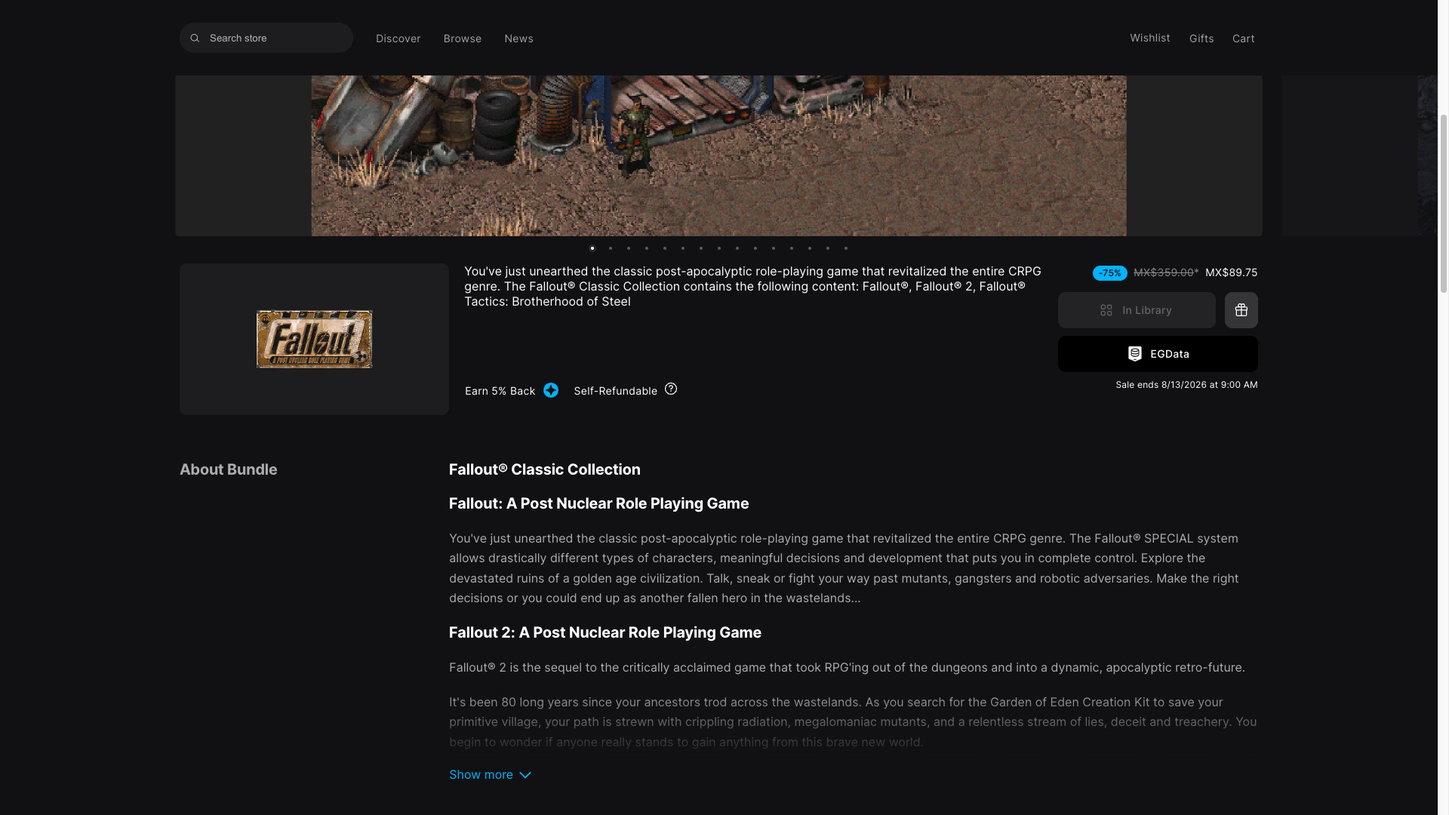
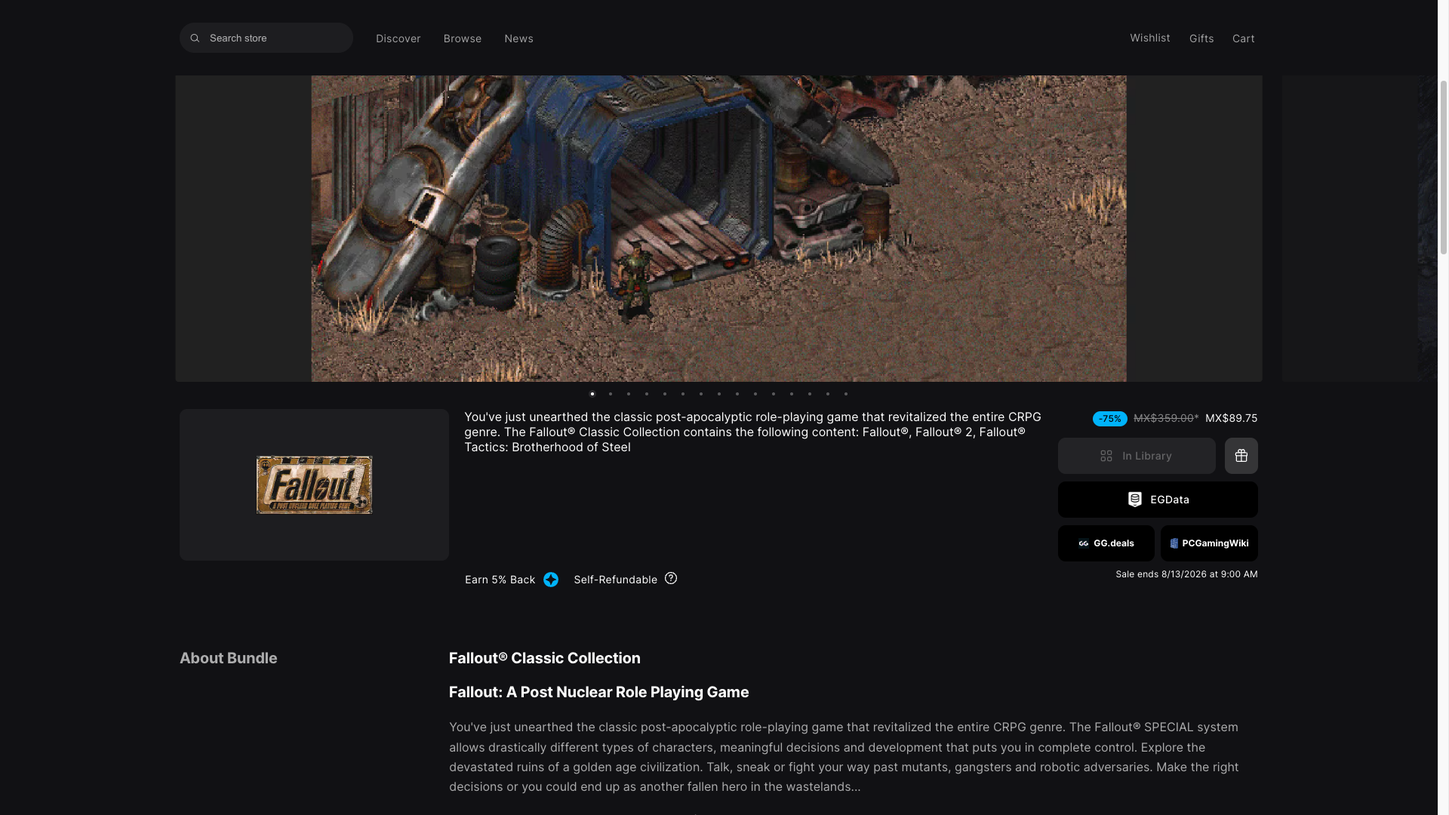
feat(epic-games-store-to-egdata): botones a GG.deals con filtro de DRM de Epic y a PCGamingWiki bajo cada botón de compra — bump 1.5.2 -> 1.6.0

diff --git a/epic-games-store-to-egdata.user.js b/epic-games-store-to-egdata.user.js
@@ -1,8 +1,8 @@
 // ==UserScript==
 // @name         Epic Games Store to EGData Button
 // @namespace    https://www.epicgames.com/store/
-// @version      1.5.2
-// @description  Adds an EGData button (price and deal history) below every purchase button on Epic Games Store product and bundle pages — bundles have two, and both get one — linking to that exact offer. On your wishlist it adds an 'only discounted' filter that first loads the whole list, remembered sort and filters, and a shareable link that reproduces them.
+// @version      1.6.0
+// @description  Adds EGData, GG.deals and PCGamingWiki buttons below every purchase button on Epic Games Store product and bundle pages — bundles have two, and both get the trio. EGData links to that exact offer; the other two search by title, GG.deals among Epic-DRM deals with no store-rating floor, and each says so in its tooltip. On your wishlist it adds an 'only discounted' filter that first loads the whole list, remembered sort and filters, and a shareable link that reproduces them.
 // @author       g31w0fw0rld
 // @license      MIT
 // @match        https://store.epicgames.com/*
@@ -39,13 +39,16 @@
             rememberTip: 'Guarda el orden y los filtros que elijas en Epic y los reaplica automáticamente cada vez que vuelvas a la lista de deseos.',
             onlyDiscountTip: 'Baja por TODA tu lista (Epic la carga por lotes al hacer scroll) para detectar todos los juegos y ocultar los que no están en oferta. Respeta el orden que elijas en Epic. El descuento se detecta por el badge de porcentaje o por el precio original tachado.',
             copyLinkTip: 'Genera una URL que, al abrirla con el script instalado, reproduce tu orden y filtros actuales (incluido "solo con descuento").',
+            ggTip: 'Busca el título en GG.deals con el filtro de DRM de Epic. Al buscar por nombre, puede no dar con el juego exacto.',
+            pcgwTip: 'Busca el título en PCGamingWiki (compatibilidad y arreglos). Al buscar por nombre, puede no dar con el artículo exacto.',
             aboutTip: 'Ver qué hace este script en su totalidad.',
             aboutTitle: '¿Qué hace este script?',
             aboutBody: [
                 'Este script conecta Epic Games Store con EGData y mejora tu lista de deseos.',
-                '• En páginas de producto (/p/) y de bundle (/bundles/): añade un botón hacia EGData (base de datos de precios e historial de ofertas) bajo el botón de compra.',
-                '– Enlaza a esa oferta concreta, no a una búsqueda.',
-                '– Un botón por cada botón de compra: los bundles tienen dos (la barra de arriba y la sección "Buy …") y ambos reciben el suyo.',
+                '• En páginas de producto (/p/) y de bundle (/bundles/): añade tres botones bajo el botón de compra.',
+                '– EGData (base de datos de precios e historial de ofertas) enlaza a esa oferta concreta, no a una búsqueda.',
+                '– GG.deals busca el título entre las ofertas con DRM de Epic, sin el mínimo de valoración de tienda que trae por defecto, y PCGamingWiki lo busca para ver compatibilidad y arreglos. Los dos buscan por nombre, así que pueden no acertar; cada uno lo dice en su tooltip.',
+                '– Un juego de botones por cada botón de compra: los bundles tienen dos (la barra de arriba y la sección "Buy …") y ambos reciben el suyo.',
                 '– Al navegar dentro de la tienda hacia un producto o un bundle, la página se recarga. Epic es una SPA y el script no estaba activo en el home, la búsqueda ni el browse; esa recarga es lo que garantiza que el botón aparezca.',
                 '• En tu lista de deseos (/wishlist) añade una barra con tres herramientas:',
                 '– Solo con descuento: baja automáticamente por toda la lista (Epic la carga por lotes al hacer scroll) para detectar TODOS los juegos y mostrar únicamente los que están en oferta, respetando el orden que elegiste en Epic. El descuento se detecta por el badge de porcentaje o por el precio original tachado. Se recuerda por su cuenta, esté o no activo "Recordar orden y filtros".',
@@ -65,13 +68,16 @@
             rememberTip: 'Saves the sort order and filters you pick in Epic and reapplies them automatically every time you return to the wishlist.',
             onlyDiscountTip: 'Scrolls through your WHOLE list (Epic loads it in batches on scroll) to detect every game and hide those not on sale. It keeps the sort order you pick in Epic. Discounts are detected by the percentage badge or the struck-through original price.',
             copyLinkTip: 'Builds a URL that, when opened with the script installed, reproduces your current sort and filters (including "only discounted").',
+            ggTip: 'Searches the title on GG.deals with the Epic DRM filter. Being a title search, it may not hit the exact game.',
+            pcgwTip: 'Searches the title on PCGamingWiki (compatibility and fixes). Being a title search, it may not hit the exact article.',
             aboutTip: 'See everything this script does.',
             aboutTitle: 'What does this script do?',
             aboutBody: [
                 'This script links Epic Games Store with EGData and enhances your wishlist.',
-                '• On product (/p/) and bundle (/bundles/) pages: adds a button to EGData (a price and deal-history database) below the purchase button.',
-                '– It links to that exact offer, not to a search.',
-                '– One button per purchase button: bundles have two (the bar at the top and the "Buy …" section) and both get theirs.',
+                '• On product (/p/) and bundle (/bundles/) pages: adds three buttons below the purchase button.',
+                '– EGData (a price and deal-history database) links to that exact offer, not to a search.',
+                '– GG.deals searches the title among Epic-DRM deals, with none of the default store-rating floor, and PCGamingWiki searches it for compatibility and fixes. Both are title searches, so they can miss; each says so in its tooltip.',
+                '– One set of buttons per purchase button: bundles have two (the bar at the top and the "Buy …" section) and both get theirs.',
                 '– Navigating inside the store to a product or a bundle reloads the page. Epic is a single-page app and the script was not active on the home, search or browse view; that reload is what guarantees the button appears.',
                 '• On your wishlist (/wishlist) it adds a toolbar with three tools:',
                 '– Only discounted: automatically scrolls through the whole list (Epic loads it in batches on scroll) to detect ALL games and show only those on sale, keeping the sort order you chose in Epic. Discounts are detected by the percentage badge or the struck-through original price. It is remembered on its own, whether or not "Remember sort and filters" is on.',
@@ -90,9 +96,34 @@
     const EGDATA_ICON_URL = 'https://cdn.egdata.app/logo_simple_white_clean.png';
     const PURCHASE_BUTTON_SELECTOR = '[data-testid="purchase-cta-button"]';
     const DATA_ATTR = 'data-egs2egd';
+    const LINK_ATTR = 'data-egs2egd-link';
     const STYLES_ID = 'egs2egd-styles';
     // Sincronizar con @version del encabezado en cada bump.
-    const SCRIPT_VERSION = '1.5.2';
+    const SCRIPT_VERSION = '1.6.0';
+
+    // GG.deals filtra por DRM con un bitmask numérico en la query, no por nombre:
+    // 1 Steam, 8 GOG, 16 sin DRM, 32 otros, 128 Microsoft Store, 1024 Epic. Aquí
+    // interesa Epic, que es el DRM de todo lo que se vende en esta tienda.
+    // Va a /deals/ (la lista de ofertas), que es la que acepta el filtro de DRM;
+    // /games/ lo ignora. Y minRating=0 desactiva el mínimo de valoración de tienda
+    // que trae por defecto, que si no esconde parte de las ofertas.
+    const GGDEALS_SEARCH_URL = 'https://gg.deals/deals/';
+    const GGDEALS_EPIC_DRM = '1024';
+    const GGDEALS_MIN_RATING = '0';
+    const PCGW_SEARCH_URL = 'https://www.pcgamingwiki.com/w/index.php';
+
+    // Icono de GG.deals: favicon remoto (su CDN permite el hotlink). Si el CSP de
+    // Epic lo bloqueara, el onerror lo quita y queda solo la etiqueta.
+    const GGDEALS_ICON_URL = 'https://gg.deals/favicon.ico';
+    // Icono de PCGamingWiki: SVG inline. Su favicon.ico responde 403 al hotlink
+    // (Cloudflare) desde otros dominios, así que como <img> remoto no se ve; el SVG
+    // inline es markup y siempre pinta, sin depender del CSP ni del hotlink.
+    const PCGW_ICON_SVG = '<svg xmlns="http://www.w3.org/2000/svg" viewBox="0 0 827 1158" width="13" height="18" aria-hidden="true" style="vertical-align:middle;flex:0 0 auto"><path d="M0 166.2 448.9-1.1 827.4 56.1l0 1023.9 0.1 28.9L452.1 1158.9 0 1008.4z" fill="#365798"/><path d="M25.3 985.5 24.1 190.5 413 46.8 412 1107.6zM478.1 1108.6 478.3 52.3 788.1 94.3l0 975.8z" fill="#a5b6d9"/><path d="M215.5 737 41.5 727 40.3 420.5 215.9 404.1zm16.7-334.5 156.1-19.4-1.2 359.8-155.2-4.8zM39.3 399.9l0-194.4 176-57.4 1.2 232.1zm350.8-317.2 0.9 274.5-158.7 20.4 0-238zm-253 909.7 0-235.1 141.7 9.3 0 268.4zm247 80.8-17.3-6.4c3.8-22.5-18.9-31.9-19.1-5.7l-18.7-5.5c-0.9-22.1-13.9-31.7-21.2-6.8l-9.7-3-0.6-277.7 12.3 0.9c-4.3 27.5 23.5 28.2 20.3 1.7L350.4 772c-4.4 28.6 23.2 28.9 20.4 1.3l12.7 0.8zM42.8 751.1l82.2 5.9-0.5 108-81.9-11.2zm83.1 129.3-0.9 110.4-82.7-20.2 0-102.4zM494.3 70l278.6 36.6 0 950-278.3 35.1z" fill="#365798"/><path d="m279 507.5c-0.1-5.1 0-10 3.2-14.2 6 0.2 4.9 9.7 5 14.3 10.3 5.1 4.9-10.8 10.2-15.3 7.6-0.8-0.6 16 6.9 15.8 4.9-0.1 3.9-2.4 3.8-6.7-0.1-3.9 0.4-7.8 3.8-10.3 8.2 3.1 0.8 18.2 11.2 15.8 0-6.4-1-14.2 5.8-17.6 2.6 5.2-0.1 14.8 5.4 16.1 7.4 1.7 8.4 3.6 10.2 10.5 0.8 3.1-0.4 4.6 2.8 6.4 3.5 2 7.6 1.4 7.7 6.1 0.1 6.4-2.7 5.5-7.6 5.5-1.8 0-2.4 3.4-2.5 4.7-0.4 4.7 0.4 5.7 5 7 5.9 1.7 4.9 3.3 4.9 8.7 0 2.7 0.5 1.2-3.1 1.9-5.7 1.1-7 0.3-6.7 6.8 0.4 7.8 13.4 1.4 9.7 12.6-1.6 4.8-9.5 1.1-9.5 5.3 0 5.3-1.1 7.7 5.4 8.2 6.4 0.5 6 9.1 0.4 11-3.4 1.2-4.6-0.1-5.8 4-1.2 4.1-1.1 8.4-2.6 12.5-6.1 4.5-11.6-1.7-11.6 8.4 0 2.7-0.6 4.7-1.1 7.3-0.9 5-2.2 0.7-5.8 1.8-1-1.2 0-7.9 0-9.5 0-4.7-1.6-5.8-7-5.4-0.3 5.8-0.2 12-4.9 16.2-2.9-1.9-4-4.8-4.2-8.1-0.3-6.5 0.2-6.7-6.5-8.3-1.2 2.9-2 11.4-1.5 14.5-5.2 2.6-6-5.4-6-8.6 0-2.7 1.1-5.7-2.3-6.7-3.4-0.9-4.6 0.8-4.7 3.9-0.2 6.1-0.5 8.8-5.3 12.2-1.9-5.4-0.3-14.7-6.6-16.4-7-1.8-7.9-6.9-8-13.6-0.1-7.3-8.9-0.3-8.9-8.2 0-0.8-0.6-4.9 0-5.5 2.9-2.1 5.8 1.2 8.5 0.1 1.3-3.6 1.8-9-2.1-9.9-4-0.9-7.8-1.4-6.9-6 1.1-5.7 0.1-5.4 6.3-5.8 4.7-0.3 3-5.2 3.1-8.4-6.2-2.9-8.8 0.8-8.8-7.4 0-5.6-0.4-5.1 5.2-5.1 4.8 0 3.4-1.7 3.4-6.3 0-5.1-9.2-0.6-9.6-7.6-0.2-3 1-5.6 3.9-6.7 5.1-2 5.7-2.3 5.9-7.8 0.3-8 5.6-8.9 12-12.1l0 0 0 0zM88.3 368.3l24.3-92.2-15.7 7.5 21.6-79 25.5-7.3-19.1 53.1 19.2-10.3-55.7 128.3 0 0z" fill="#a5b6d9"/><path d="m278.8 317.9c1.2-3.2 2.5-6.5 3.8-9.9 13.8 5.9 26.4 10.2 40.6 1.9 13.7-8 22.8-24.3 28-38.8 10.2-28.4 10.2-66.8-8.3-91.8-22.5-30.5-54.5-14.5-69.8 13.9-4.7 8.8-11.2 31.3-12.1 45.3-0.5 6.9-0.2 14.1 0.8 21.3 1 8.1 5.2 16.5 4.2 24.7-0.3 2.5-1.8 4.1-4.6 4.6-16.7-28-7.6-72.9 4.9-100.6 12.5-27.6 47.9-55.5 75.9-29 25.7 24.2 28.2 68.1 21.3 100.3-6.2 28.8-26 71.4-61.9 68.2-6.4-0.6-19.1-3.8-22.7-10l0 0zM299.3 272c-3.2-11.6 11.5-19.5 14.8-28.4 1.9-5.2-0.1-9.6-2.2-14-4.9-2.6-9-1.1-10.8 4-3.2 8.9-6.5 14.9-12.6 22.1-3.3-13.7-1.4-29.1 6.6-40.9 4.3-6.3 12.9-9.4 19.4-6.9 20.5 7.8 14.2 42.7 5.3 56.4-4.7 7.3-12.7 7.6-20.5 7.6L299.3 272zm3.4-25.8c0.5 0.7 0.5 1.4 0.2 2-9.4 21.3-18.7 42.6-28.2 64-0.9-0.4-1.4-0.4-1.7-0.7-3.3-3.9-5.6-8.5-7.8-13.1-0.9-1.8 0.1-3.6 1.2-5.1l32.8-43.7c0.9-1.3 2-2.6 3.4-3.4l0 0z" fill="#a5b6d8"/><path d="m188.7 921.7c-6.1 11.9-4.4 25.1-6 38-9.7-2.4-16.7-21.7-18.6-30 1.7-9.9 6.9-17.2 12.9-24.9 2.8-3.6 3.7-7.2 1.9-11.4-0.7-1.6-0.6-3.6-2-4.9-8.7 1.5-13.9 8.2-19.9 14-6.7-7-5.2-33.4 0.2-41.1 8.4-1.5 15.8 1 22.6 5.8 5.3-5.2 5.6-10.3 0.9-15.7-3.6-4.1-14.7-8.9-16.7-13.1-1.6-6.3 10.2-27.5 17.3-27.2 7.8 11.5 12.4 24.5 15 38.1 2.7 1.1 5.1 2.1 8.2 1.5 1.6-15.5-1.9-30.3-6.8-44.8 0.5-0.5 0.8-0.9 1-0.9 8.6 0.6 16.8 2.3 23.4 8.6 14.9 14.2-11.5 41.7 0.4 58.4 10.7-10.3 10.5-23.1 18.6-34 8 10.3 15 31 13.7 44.1-6.9 8.3-12.4 13-28.9 14.2 0.5 3.7-1.8 7.2-0.8 11.5 8.8 9.4 18.5 7.9 30.1 7.2 1.6 8.2-6.7 33.6-12.9 39.7-12.6-5.7-19.1-17.9-26.1-29.1-2.5 1.9-4.6 3.7-6.4 6.1 1.7 12.9 18 29.3 15.9 40.7-5.5 2.6-11.4 4.3-17.7 3.4-6.2-0.9-8.7-4.3-10.2-10.9-3.3-14.7 3.2-32.8-9.2-43.3zm118.5 22.1 0-63.8 67.8 10.9 0 67.4zM307.1 804.2 375 811.3 375 878.1 307.1 868.2zm67.7 165.5 0 66.8-67.6-18.6 0-63.6zm-320.5-31.7 0-28.9 13.7 2 16.5-16.6 0.7 67.6-16.3-20.9z" fill="#a5b6d9"/><path d="m89.1 914.4c1.4-0.6 2.3-0.5 3.4-0.2 2.8 6.5 3.9 13.4 3.6 20.5-0.1 2.7-1.1 5.1-1.7 7.6-0.5 1.9-1.8 3-3.4 3.9-1.3-1.3-0.9-2.5-0.6-3.8 0.8-3.7 1.6-7.3 1.7-11.1 0.2-5.8-1.6-11.2-2.9-16.9l0 0 0 0zm7 42.4c-0.3-3.3 0.9-6.2 1.6-9.1 1-4.4 2.5-8.8 3.1-13.2 0.8-5.6-1-11-2.4-16.4-0.7-2.5-1.5-5-2.2-7.5-0.4-1.6-0.7-3.1 0.2-4.5 1.3-0.1 1.8 0.6 2.1 1.3 2.1 4.3 3.6 8.6 4.5 13.3 1 5.5 0.5 10.9 0.9 16.3 0.3 3.5-0.8 6.9-1.3 10.2-0.6 3.8-2.6 7.4-6.6 9.6l0 0zm7.6 10.4c-1.9-3.7-1.4-6.5-0.1-9.8 3.1-8.1 5.9-16.4 5.3-25.2-0.5-7.7-1.8-15.2-4.6-22.4-1.2-3-2.3-6.1-3.3-9 0.8-1.2 1.7-2 3.4-1.6 1.8 4.1 3.9 8.3 5.1 12.8 5 19 5 37.4-5.7 55.3l0 0z" fill="#a5b6d9"/><path d="m598.7 1047.1-70.3 8.4-0.2-378.8 70.5-3.8zM688.5 533.1c-11 50.3-65.8 45.6-78.3 2.8l-92.4 3.1-0.2-67.9 89.4-3.3c22.8-54 64.5-46.2 81.8 0.2l66.2 0.4 1.6 61.8zm-172.4-237.1 0-24 241.7 7.5 0.1 19.4z" fill="#a5b6d9"/><path d="m52.3 827.5 62.6 9.7-19.2-43.4-8.2 15-13.4-29.3-21.8 48.1zM116.4 788c0 4.4-3.5 7.9-7.9 7.9-4.4 0-7.9-3.5-7.9-7.9 0-4.4 3.5-7.9 7.9-7.9 4.4 0 7.9 3.5 7.9 7.9z" fill="#a5b6d9"/><ellipse cx="649.4" cy="501.8" rx="31" ry="51.8" fill="#365798"/><path d="m177.7 627.1c-1.8 3-1.6 6.7 0.4 9.3l-26.3 40 6.6-0.1 25-36.7c3.2 0.6 6.6-0.9 8.5-3.8 2.4-3.9 1.2-9-2.7-11.4-3.9-2.4-9-1.2-11.5 2.7zm-110.8 29.7-9.7 12.9 4.6 4.3 7.9-11 7.1 0.3c0.4 0.7 0.9 1.4 1.5 2 3.3 3.3 8.6 3.3 11.8 0 3.3-3.3 3.3-8.6 0-11.8-3.3-3.3-8.6-3.3-11.8 0-1 1-1.7 2.3-2.1 3.6zm20.1-68.7c-4.4 0-8 3.6-8 8 0 4.4 3.6 8 8 8 3.7 0 6.8-2.5 7.7-6l44.5 1.3 17.4 21.5c-0.2 0.8-0.4 1.6-0.4 2.4 0 4.6 3.8 8.4 8.4 8.4 4.6 0 8.4-3.8 8.4-8.4 0-4.6-3.8-8.4-8.4-8.4-1.5 0-2.9 0.4-4.1 1.1l-18.9-22.9-48-1.3c-1.4-2.2-3.9-3.7-6.8-3.7zm13.5 27c-4.6 0.1-8.3 4-8.1 8.6 0.1 4.6 4 8.3 8.6 8.1 3.3-0.1 6-2.1 7.3-4.9l22.2-0.5c1.4 2.9 4.4 4.8 7.8 4.7 4.6-0.1 8.3-4 8.1-8.6-0.1-4.6-4-8.3-8.6-8.1-3.6 0.1-6.6 2.5-7.7 5.7l-21.5 0.5c-1.2-3.3-4.4-5.7-8.1-5.6zm-26 16.7c0 4.4-3.6 8-8 8-4.4 0-8-3.6-8-8 0-4.4 3.6-8 8-8 4.4 0 8 3.6 8 8zM87.6 476.5c-3.5 0.2-6.4 2.5-7.5 5.6l-22.6 1 0.3 6.2 22.6-1c1.4 3 4.4 5 7.9 4.9 4.6-0.2 8.1-4.1 7.9-8.7-0.2-4.6-4.1-8.2-8.7-8zm56.3 20c-4.6 0.1-8.3 4-8.1 8.6 0.1 4.6 4 8.3 8.6 8.1 3.3-0.1 6-2.1 7.3-4.9l25.3-0.7c1.4 2.9 4.4 4.8 7.8 4.7 4.6-0.1 8.3-4 8.1-8.6-0.1-4.6-4-8.3-8.6-8.1-3.6 0.1-6.6 2.5-7.7 5.7l-24.6 0.7c-1.2-3.3-4.4-5.7-8.1-5.6zm-44.4-30.4-4.1 4.7 19.8 17.1 80.9-3-0.5-6.2-78.3 2.8zm-41.6 51.7-0.2-6 68.2-4 71.4 103.9-5.3 3.3-70.1-101.1zm132.6 25.4c2.3-2.6 2.6-6.3 1.1-9.3l6.6-9.5 0.4-9-11.7 14.4c-3.1-1.1-6.7-0.2-9 2.4-3 3.5-2.7 8.7 0.8 11.7 3.5 3 8.7 2.7 11.8-0.8zm-32.3 0.4c2 2.9 5.5 4.1 8.7 3.3l30.7 44.3-0.1-9.8-25.5-38c1.8-2.8 1.8-6.4-0.2-9.3-2.6-3.8-7.8-4.7-11.6-2-3.8 2.6-4.7 7.8-2.1 11.6zm-34.8-9.6c-3.5 0.2-6.4 2.5-7.5 5.6l-57.2 2.9 0.3 6.2 57.2-2.9c1.4 3 4.4 5 7.9 4.9 4.6-0.2 8.1-4.1 7.9-8.7-0.2-4.6-4.1-8.2-8.7-8zm17.5 33-81.3 2 0.2 6.3 78.7-2 17.5 22.3c-0.2 0.8-0.4 1.6-0.4 2.4 0 4.6 3.8 8.4 8.4 8.4 4.6 0 8.4-3.8 8.4-8.4 0-4.6-3.8-8.4-8.4-8.4-1.5 0-2.9 0.4-4.1 1.1zM179.2 672.5c1.2 2.6 5 0.2 5.7 3.6-1 4.1-8.9 0.5-11.6 0.9-1.4-4.3 8.4-15.3 10.9-18.8 2.8-1.4 9.4 0 12.6 0 0.3 2.8 0.5 5.3-1.5 7.8-3.4 0.1-6.7-1.4-10.1-1.7-2 2.7-4 5.5-6 8.2zM67.3 604.9l-8.1 0 0-6.7c6.2 0 9.7-1.6 13.2 3.9 6.6 10.3 12.8 20.9 19.1 31.4 3.1 5.2 6.3 10.4 9.5 15.5 4.6 7.4 5.8 8 14.6 8.6 6.3 0.4 12.7 0.4 19.1 0.4 6.6 0 6.4-5.5 12.7-4.9 5.4 5.1 5.4 11.7 0 16.8-6 0.4-5.3-5.8-9.8-5.8l-19.2 0c-9.5 0-12.4 2.1-17.3-5.6-11.2-17.9-22.4-35.7-33.6-53.6z" fill="#a5b6d9"/><path d="m339.3 257.1c0 3.2-2.6 5.9-5.9 5.9-3.2 0-5.9-2.6-5.9-5.9 0-3.2 2.6-5.9 5.9-5.9 3.2 0 5.9 2.6 5.9 5.9zm14.4-13.7c0 3.2-2.6 5.9-5.9 5.9-3.2 0-5.9-2.6-5.9-5.9 0-3.2 2.6-5.9 5.9-5.9 3.2 0 5.9 2.6 5.9 5.9zm23 0c0 3.2-2.6 5.9-5.9 5.9-3.2 0-5.9-2.6-5.9-5.9 0-3.2 2.6-5.9 5.9-5.9 3.2 0 5.9 2.6 5.9 5.9zm-12.9 46.6c0 3.2-2.6 5.9-5.9 5.9-3.2 0-5.9-2.6-5.9-5.9 0-3.2 2.6-5.9 5.9-5.9 3.2 0 5.9 2.6 5.9 5.9zm14.7-11.5c0 3.2-2.6 5.9-5.9 5.9-3.2 0-5.9-2.6-5.9-5.9 0-3.2 2.6-5.9 5.9-5.9 3.2 0 5.9 2.6 5.9 5.9zm7.4-18.3c0 3.2-2.6 5.9-5.9 5.9-3.2 0-5.9-2.6-5.9-5.9 0-3.2 2.6-5.9 5.9-5.9 3.2 0 5.9 2.6 5.9 5.9z" transform="matrix(0.59478444,0,0,0.93466127,95.788817,-7.8295466)" fill="#365798"/></svg>';
+
+    // Limpieza extra del título para las búsquedas externas.
+    const TRADEMARK_REGEX = /[™®©]/g;
+    // Diacríticos combinados, para quitarlos tras normalizar a NFD.
+    const DIACRITICS_REGEX = /[\u0300-\u036f]/g;
 
     // Intervalos y límites de polling
     const POLL_INTERVAL_MS = 400;
@@ -332,6 +363,25 @@
         return rawTitle.replace(/\s*-\s*Epic Games Store.*$/i, '').trim().split('|')[0].trim();
     }
 
+    /**
+     * Título para las búsquedas externas: el mismo de getGameTitle() sin símbolos
+     * de marca ni espacios dobles. Se deja aparte para no tocar el que va al log.
+     * @returns {string} Título limpio, o cadena vacía si no se pudo leer.
+     */
+    function getSearchTitle() {
+        return getGameTitle().replace(TRADEMARK_REGEX, '').replace(/\s+/g, ' ').trim();
+    }
+
+    /**
+     * Normaliza el título para la búsqueda de GG.deals quitando los acentos:
+     * GG.deals translitera en su índice, así que "Pokémon" se busca como "Pokemon".
+     * @param {string} title - Título limpio del juego.
+     * @returns {string} Título sin diacríticos.
+     */
+    function normalizeForGgDeals(title) {
+        return title.normalize('NFD').replace(DIACRITICS_REGEX, '');
+    }
+
     // =============================================
     // FUNCIONES DOM / UI
     // =============================================
@@ -378,6 +428,62 @@
                 outline: 2px solid #fff3 !important;
                 outline-offset: 2px !important;
             }
+            /* Fila de GG.deals + PCGamingWiki: mismo aspecto que el botón de EGData
+               (negro, texto blanco, misma altura y mismas esquinas) repartiéndose a
+               partes iguales el ancho de la columna de compra, que no da para dos
+               etiquetas seguidas. Sin sombra: los botones de Epic no la llevan.
+               Altura y radio llegan como variables desde matchSibling(), medidos del
+               propio botón de EGData, que hereda su aspecto del botón de compra de
+               Epic; un valor fijo aquí se desalinearía en cuanto Epic cambie el suyo.
+               Los valores del var() son solo el respaldo. */
+            .egs2egd-links {
+                display: flex; align-items: stretch; gap: 8px; margin-top: 0.625rem;
+            }
+            a[${LINK_ATTR}="true"] {
+                flex: 1 1 0;
+                min-width: 0;
+                box-sizing: border-box;
+                min-height: var(--egs2egd-h, 40px);
+                border-radius: var(--egs2egd-r, 8px) !important;
+                display: inline-flex !important;
+                align-items: center !important;
+                justify-content: center !important;
+                gap: 6px !important;
+                background: #000 !important;
+                color: #fff !important;
+                border: none !important;
+                padding: 5px 8px !important;
+                font-size: 12px !important;
+                font-weight: 700 !important;
+                line-height: 1.3 !important;
+                cursor: pointer !important;
+                text-decoration: none !important;
+                white-space: nowrap;
+                overflow: hidden;
+                transition: background 200ms ease, transform 120ms ease;
+            }
+            a[${LINK_ATTR}="true"]:hover {
+                background: #757575 !important;
+                transform: translateY(-1px);
+                text-decoration: none !important;
+            }
+            a[${LINK_ATTR}="true"]:focus {
+                outline: 2px solid #fff3 !important;
+                outline-offset: 2px !important;
+            }
+            a[${LINK_ATTR}="true"] .egs2egd-ico {
+                display: inline-flex;
+                align-items: center;
+                flex: 0 0 auto;
+            }
+            a[${LINK_ATTR}="true"] img.egs2egd-ico {
+                width: 14px; height: 14px; object-fit: contain;
+            }
+            /* El logo de PCGamingWiki es más alto que ancho (viewBox 827x1158): se
+               fija el alto y se deja el ancho automático para no deformarlo. */
+            a[${LINK_ATTR}="true"] .egs2egd-ico svg {
+                height: 14px; width: auto; display: block;
+            }
         `;
         (document.head || document.documentElement).appendChild(style);
     }
@@ -420,6 +526,89 @@
     }
 
     /**
+     * Crea un enlace externo con el aspecto del botón de EGData, con el icono
+     * dentro y a la izquierda de la etiqueta. Es un <a> real, así que funcionan el
+     * clic central y "copiar dirección del enlace".
+     * @param {{ label: string, url: string, iconSvg?: string, iconUrl?: string, tooltip: string }} opts
+     * @returns {HTMLAnchorElement} El enlace listo para insertar.
+     */
+    function buildLinkButton({ label, url, iconSvg, iconUrl, tooltip }) {
+        const a = document.createElement('a');
+        a.setAttribute(LINK_ATTR, 'true');
+        a.href = url;
+        a.target = '_blank';
+        a.rel = 'nofollow noopener external';
+        a.title = tooltip;
+
+        if (iconSvg) {
+            const box = document.createElement('span');
+            box.className = 'egs2egd-ico';
+            box.innerHTML = iconSvg;
+            a.appendChild(box);
+        } else if (iconUrl) {
+            const img = document.createElement('img');
+            img.className = 'egs2egd-ico';
+            img.src = iconUrl;
+            img.alt = '';
+            img.addEventListener('error', () => img.remove());  // sin icono si el CSP lo bloquea
+            a.appendChild(img);
+        }
+        const text = document.createElement('span');
+        text.textContent = label;
+        a.appendChild(text);
+        return a;
+    }
+
+    /**
+     * Fila con los enlaces a GG.deals y PCGamingWiki, que buscan por el título de
+     * la página. Devuelve null si no hay título legible: mejor sin botones que con
+     * dos enlaces a una búsqueda vacía.
+     * @returns {HTMLDivElement|null} El contenedor con los dos enlaces, o null.
+     */
+    function buildExternalLinks() {
+        const title = getSearchTitle();
+        if (!title) return null;
+
+        const box = document.createElement('div');
+        box.className = 'egs2egd-links';
+
+        const ggParams = new URLSearchParams({
+            drm: GGDEALS_EPIC_DRM,
+            minRating: GGDEALS_MIN_RATING,
+            title: normalizeForGgDeals(title)
+        });
+        box.appendChild(buildLinkButton({
+            label: 'GG.deals',
+            url: `${GGDEALS_SEARCH_URL}?${ggParams}`,
+            iconUrl: GGDEALS_ICON_URL,
+            tooltip: t.ggTip
+        }));
+        box.appendChild(buildLinkButton({
+            label: 'PCGamingWiki',
+            url: `${PCGW_SEARCH_URL}?${new URLSearchParams({ search: title })}`,
+            iconSvg: PCGW_ICON_SVG,
+            tooltip: t.pcgwTip
+        }));
+        return box;
+    }
+
+    /**
+     * Copia a la fila de enlaces la altura y el radio de esquina del botón hermano,
+     * midiéndolos ya en el DOM. Silencioso si no se puede medir (se queda con los
+     * valores por defecto del CSS).
+     * @param {HTMLElement} links - Fila de enlaces externos.
+     * @param {HTMLElement} sibling - Botón de EGData, del que se copian las medidas.
+     */
+    function matchSibling(links, sibling) {
+        try {
+            const h = sibling.offsetHeight;
+            if (h > 0) links.style.setProperty('--egs2egd-h', `${h}px`);
+            const r = getComputedStyle(sibling).borderRadius;
+            if (r && r !== '0px') links.style.setProperty('--egs2egd-r', r);
+        } catch (e) { /* sin medidas: mandan los valores por defecto del CSS */ }
+    }
+
+    /**
      * Inserta el botón EGData colgando del contenedor 3 niveles arriba del botón
      * de compra dado (misma colocación original que ya funcionaba en productos).
      * @param {HTMLButtonElement} purchaseButton - Botón de compra de referencia.
@@ -456,7 +645,14 @@
         if (withMargin) button.style.marginTop = '0.625rem';
         divButton.appendChild(button);
 
+        // GG.deals y PCGamingWiki van en su propia fila, colgada del mismo host: el
+        // botón de EGData conserva así la colocación exacta que ya funcionaba.
+        const links = buildExternalLinks();
+        if (links) div.appendChild(links);
+
         host.appendChild(div);
+        // Medir después de insertar: antes el botón no tiene alto ni estilo aplicado.
+        if (links) matchSibling(links, button);
         return button;
     }
 

diff --git a/README.md b/README.md
@@ -1,16 +1,16 @@
 # Epic Games Store to EGData Button
 
-Tampermonkey userscript for the Epic Games Store: an EGData button on product and bundle pages plus wishlist tools. / Userscript de Tampermonkey para Epic Games Store: botón a EGData en las páginas de producto y bundle, y herramientas en la lista de deseos.
+Tampermonkey userscript for the Epic Games Store: EGData, GG.deals and PCGamingWiki buttons on product and bundle pages, plus wishlist tools. / Userscript de Tampermonkey para Epic Games Store: botones a EGData, GG.deals y PCGamingWiki en las páginas de producto y bundle, y herramientas en la lista de deseos.
 
-![The EGData button below the purchase button on an Epic product page](docs/screenshot-p.png)
+![The EGData button below the purchase button on an Epic product page, with GG.deals and PCGamingWiki sharing the row underneath](docs/screenshot-p.png)
 
-*Product page (`/p/`): the EGData button sits under the purchase button and reuses Epic's own styling. / Página de producto (`/p/`): el botón de EGData va bajo el de compra y reutiliza el estilo propio de Epic.*
+*Product page (`/p/`): EGData sits under the purchase button and reuses Epic's own styling; GG.deals and PCGamingWiki split the row below it, at the same height and with the same corners. / Página de producto (`/p/`): EGData va bajo el botón de compra y reutiliza el estilo propio de Epic; GG.deals y PCGamingWiki se reparten la fila de abajo, a la misma altura y con las mismas esquinas.*
 
-![The EGData button on the top purchase bar of a bundle page](docs/screenshot-bundles.png)
+![The three buttons on the top purchase bar of a bundle page](docs/screenshot-bundles.png)
 
-![The second EGData button, further down the same bundle page, next to the "Buy" section](docs/screenshot-bundles-buy.png)
+![The three buttons again, further down the same bundle page, next to the "Buy" section](docs/screenshot-bundles-buy.png)
 
-*Bundles (`/bundles/`) have two purchase buttons — the bar at the top and the "Buy …" section further down — and each one gets its own EGData button, so you never have to scroll back up. / Los bundles (`/bundles/`) tienen dos botones de compra —la barra de arriba y la sección "Buy …" más abajo— y cada uno recibe su propio botón de EGData, así no hay que volver a subir.*
+*Bundles (`/bundles/`) have two purchase buttons — the bar at the top and the "Buy …" section further down — and each one gets its own set of three, so you never have to scroll back up. / Los bundles (`/bundles/`) tienen dos botones de compra —la barra de arriba y la sección "Buy …" más abajo— y cada uno recibe su propio juego de tres, así no hay que volver a subir.*
 
 ![The toolbar the script adds above the wishlist sort control](docs/screenshot-wishlist.png)
 
@@ -20,12 +20,15 @@ Tampermonkey userscript for the Epic Games Store: an EGData button on product an
 
 ### What it does
 
-**EGData button**
-- On **product** (`/p/`) and **bundle** (`/bundles/`) pages it adds a button to **[EGData](https://egdata.app/)**, a price and deal-history database, right below the purchase button.
-- It links to **that exact offer**, not to a search. Epic identifies each offer with an internal id; on bundles that id only travels in a request the page makes after loading, so the script reads the URL of the store's own requests to catch it.
-- The button borrows Epic's own button classes, so it matches the store instead of looking bolted on.
-- **One button per purchase button.** Bundles show two and both get theirs.
-- Navigating inside the store to a product or bundle **reloads the page**. Epic is a single-page app and the script was not active on the home, search or browse view; the reload is what guarantees the button appears.
+**Buttons on product (`/p/`) and bundle (`/bundles/`) pages**
+- **[EGData](https://egdata.app/)** — a price and deal-history database. It links to **that exact offer**, not to a search. Epic identifies each offer with an internal id; on bundles that id only travels in a request the page makes after loading, so the script reads the URL of the store's own requests to catch it.
+- **[GG.deals](https://gg.deals/)** — where else that game is on sale, and for how much. It searches **by title among Epic-DRM deals only**, since that is the DRM of everything sold in this store, and it turns off the default store-rating floor so no offer is hidden from you.
+- **[PCGamingWiki](https://www.pcgamingwiki.com/)** — compatibility, fixes, ultrawide and frame-rate notes. It searches by title.
+- **The last two are title searches, so they can miss**, and each says exactly that in its tooltip. The EGData button carries no tooltip: it is built from the offer id and cannot miss.
+- The title is read from the page and cleaned of Epic's wrapping and of trademark symbols. If it cannot be read at all, only EGData is added — better no button than a link to an empty search. Accents are dropped for GG.deals only, because it transliterates in its own index, and kept for PCGamingWiki, whose articles keep them.
+- The three borrow Epic's own look, so they match the store instead of looking bolted on: EGData takes the full width and the other two split the row below it, at the height and corner radius measured from EGData itself. GG.deals and PCGamingWiki are real links, so middle-click and *copy link address* work.
+- **One set per purchase button.** Bundles show two and both get theirs.
+- Navigating inside the store to a product or bundle **reloads the page**. Epic is a single-page app and the script was not active on the home, search or browse view; the reload is what guarantees the buttons appear.
 
 **Wishlist (`/wishlist`)**
 - **Only discounted:** scrolls through your whole list — Epic loads it in batches as you scroll — to detect every game and hide the ones that are not on sale, keeping the sort order you picked in Epic. A discount is detected by the percentage badge or the struck-through original price. This toggle is remembered on its own, whether or not "Remember sort and filters" is on.
@@ -33,7 +36,7 @@ Tampermonkey userscript for the Epic Games Store: an EGData button on product an
 - **Copy link with filters:** builds a URL that reproduces your sort, your filters and the "only discounted" state when opened with the script installed — shareable and bookmarkable. If the browser blocks clipboard access, it shows the URL in a dialog so you can copy it by hand.
 - **"Learn more"** button with the full explanation inside the page, and a tooltip on every control.
 
-**Language:** automatic Spanish / English detection, following the language Epic serves the page in.
+**Language:** automatic Spanish / English detection, following the language Epic serves the page in. It covers the wishlist toolbar and the two search tooltips; the button labels are brand names and stay as they are.
 
 **Install:**
 1. Install [Tampermonkey](https://www.tampermonkey.net/).
@@ -45,12 +48,15 @@ Tampermonkey userscript for the Epic Games Store: an EGData button on product an
 
 ### Qué hace
 
-**Botón de EGData**
-- En páginas de **producto** (`/p/`) y de **bundle** (`/bundles/`) añade un botón hacia **[EGData](https://egdata.app/)**, base de datos de precios e historial de ofertas, justo bajo el botón de compra.
-- Enlaza a **esa oferta concreta**, no a una búsqueda. Epic identifica cada oferta con un id interno; en los bundles ese id solo viaja en una petición que la página hace después de cargar, así que el script lee la URL de las propias peticiones de la tienda para capturarlo.
-- El botón toma prestadas las clases de los botones de Epic, así que combina con la tienda en vez de parecer añadido.
-- **Un botón por cada botón de compra.** Los bundles muestran dos y ambos reciben el suyo.
-- Navegar dentro de la tienda hacia un producto o un bundle **recarga la página**. Epic es una SPA y el script no estaba activo en el home, la búsqueda ni el browse; esa recarga es lo que garantiza que el botón aparezca.
+**Botones en páginas de producto (`/p/`) y de bundle (`/bundles/`)**
+- **[EGData](https://egdata.app/)** —base de datos de precios e historial de ofertas—. Enlaza a **esa oferta concreta**, no a una búsqueda. Epic identifica cada oferta con un id interno; en los bundles ese id solo viaja en una petición que la página hace después de cargar, así que el script lee la URL de las propias peticiones de la tienda para capturarlo.
+- **[GG.deals](https://gg.deals/)** —en qué otras tiendas está de oferta ese juego, y a cuánto—. Busca **por título y solo entre ofertas con DRM de Epic**, que es el DRM de todo lo que se vende en esta tienda, y desactiva el mínimo de valoración de tienda que trae por defecto para que no te esconda ninguna oferta.
+- **[PCGamingWiki](https://www.pcgamingwiki.com/)** —compatibilidad, arreglos, ultrapanorámico y notas de frame rate—. Busca por título.
+- **Los dos últimos buscan por nombre, así que pueden no acertar**, y cada uno lo dice tal cual en su tooltip. El de EGData no lleva tooltip: se construye con el id de la oferta y no puede fallar.
+- El título se lee de la página y se limpia de los adornos de Epic y de los símbolos de marca. Si no se puede leer, se añade solo EGData: mejor ningún botón que un enlace a una búsqueda vacía. Los acentos se quitan solo para GG.deals, porque translitera en su índice, y se conservan para PCGamingWiki, cuyos artículos sí los llevan.
+- Los tres toman prestado el aspecto de Epic, así que combinan con la tienda en vez de parecer añadidos: EGData ocupa todo el ancho y los otros dos se reparten la fila de abajo, con la altura y el radio de esquina medidos del propio botón de EGData. GG.deals y PCGamingWiki son enlaces de verdad, así que funcionan el clic central y *copiar dirección del enlace*.
+- **Un juego de botones por cada botón de compra.** Los bundles muestran dos y ambos reciben el suyo.
+- Navegar dentro de la tienda hacia un producto o un bundle **recarga la página**. Epic es una SPA y el script no estaba activo en el home, la búsqueda ni el browse; esa recarga es lo que garantiza que los botones aparezcan.
 
 **Lista de deseos (`/wishlist`)**
 - **Solo con descuento:** baja por toda tu lista —Epic la carga por lotes al hacer scroll— para detectar todos los juegos y ocultar los que no están en oferta, respetando el orden que elijas en Epic. El descuento se detecta por el badge de porcentaje o por el precio original tachado. Este interruptor se recuerda por su cuenta, esté o no activo "Recordar orden y filtros".
@@ -58,7 +64,7 @@ Tampermonkey userscript for the Epic Games Store: an EGData button on product an
 - **Copiar enlace con filtros:** genera una URL que, al abrirla con el script instalado, reproduce tu orden, tus filtros y el estado de "solo con descuento" — se puede compartir y guardar en marcadores. Si el navegador bloquea el portapapeles, muestra la URL en un diálogo para copiarla a mano.
 - Botón **"Saber más"** con la explicación completa dentro de la página, y un tooltip en cada control.
 
-**Idioma:** detección automática español / inglés, siguiendo el idioma con el que Epic sirve la página.
+**Idioma:** detección automática español / inglés, siguiendo el idioma con el que Epic sirve la página. Cubre la barra de la lista de deseos y los dos tooltips de búsqueda; las etiquetas de los botones son marcas y se quedan como están.
 
 **Instalación:**
 1. Instala [Tampermonkey](https://www.tampermonkey.net/).
@@ -68,9 +74,9 @@ Tampermonkey userscript for the Epic Games Store: an EGData button on product an
 
 ## Privacy / Privacidad
 
-**EN:** the script makes no requests to external servers: everything runs in your browser. It declares `@grant none`, so it has no access to the userscript manager's privileged APIs. It stores in `localStorage` on `store.epicgames.com` (key `egs2egd-wishlist-settings`) only your wishlist sort order, filters and the "only discounted" state. To detect in-page navigation and to catch the offer id on bundles it wraps the page's `fetch` and `XMLHttpRequest` and **only reads each request's URL**: it does not alter, store or forward the requests or their contents. The copy-link button writes to the clipboard only when you click it. Nothing is sent to third parties or to the author, and you only visit EGData if you click the button.
+**EN:** the script sends nothing to third parties or to the author, and everything it computes runs in your browser. It declares `@grant none`, so it has no access to the userscript manager's privileged APIs. It stores in `localStorage` on `store.epicgames.com` (key `egs2egd-wishlist-settings`) only your wishlist sort order, filters and the "only discounted" state. Two requests do leave your browser, both for icons: the EGData logo from `cdn.egdata.app` and the GG.deals favicon from `gg.deals`, so those two sites see a plain image request when the buttons are drawn — nothing about which game you are looking at. The PCGamingWiki logo is inline SVG and requests nothing. To detect in-page navigation and to catch the offer id on bundles the script wraps the page's `fetch` and `XMLHttpRequest` and **only reads each request's URL**: it does not alter, store or forward the requests or their contents. The copy-link button writes to the clipboard only when you click it. You only visit EGData, GG.deals or PCGamingWiki if you click.
 
-**ES:** el script no hace ninguna petición a servidores externos: todo se procesa en tu navegador. Declara `@grant none`, así que no tiene acceso a las APIs privilegiadas del gestor de userscripts. Guarda en `localStorage` de `store.epicgames.com` (clave `egs2egd-wishlist-settings`) solo el orden, los filtros y el estado de "solo con descuento" de tu lista de deseos. Para detectar la navegación interna y para capturar el id de oferta en los bundles envuelve el `fetch` y el `XMLHttpRequest` de la página y **solo lee la URL** de cada petición: no altera, guarda ni reenvía las peticiones ni su contenido. El botón de copiar enlace escribe en el portapapeles únicamente cuando haces clic. No se envía nada a terceros ni al autor, y solo visitas EGData si haces clic en el botón.
+**ES:** el script no envía nada a terceros ni al autor, y todo lo que calcula se procesa en tu navegador. Declara `@grant none`, así que no tiene acceso a las APIs privilegiadas del gestor de userscripts. Guarda en `localStorage` de `store.epicgames.com` (clave `egs2egd-wishlist-settings`) solo el orden, los filtros y el estado de "solo con descuento" de tu lista de deseos. Sí salen dos peticiones de tu navegador, las dos de iconos: el logo de EGData desde `cdn.egdata.app` y el favicon de GG.deals desde `gg.deals`, así que esos dos sitios ven una petición de imagen corriente al dibujarse los botones —nada sobre qué juego estás viendo—. El logo de PCGamingWiki es SVG en línea y no pide nada. Para detectar la navegación interna y para capturar el id de oferta en los bundles el script envuelve el `fetch` y el `XMLHttpRequest` de la página y **solo lee la URL** de cada petición: no altera, guarda ni reenvía las peticiones ni su contenido. El botón de copiar enlace escribe en el portapapeles únicamente cuando haces clic. Solo visitas EGData, GG.deals o PCGamingWiki si haces clic.
 
 ## Support / Apoyar
 
